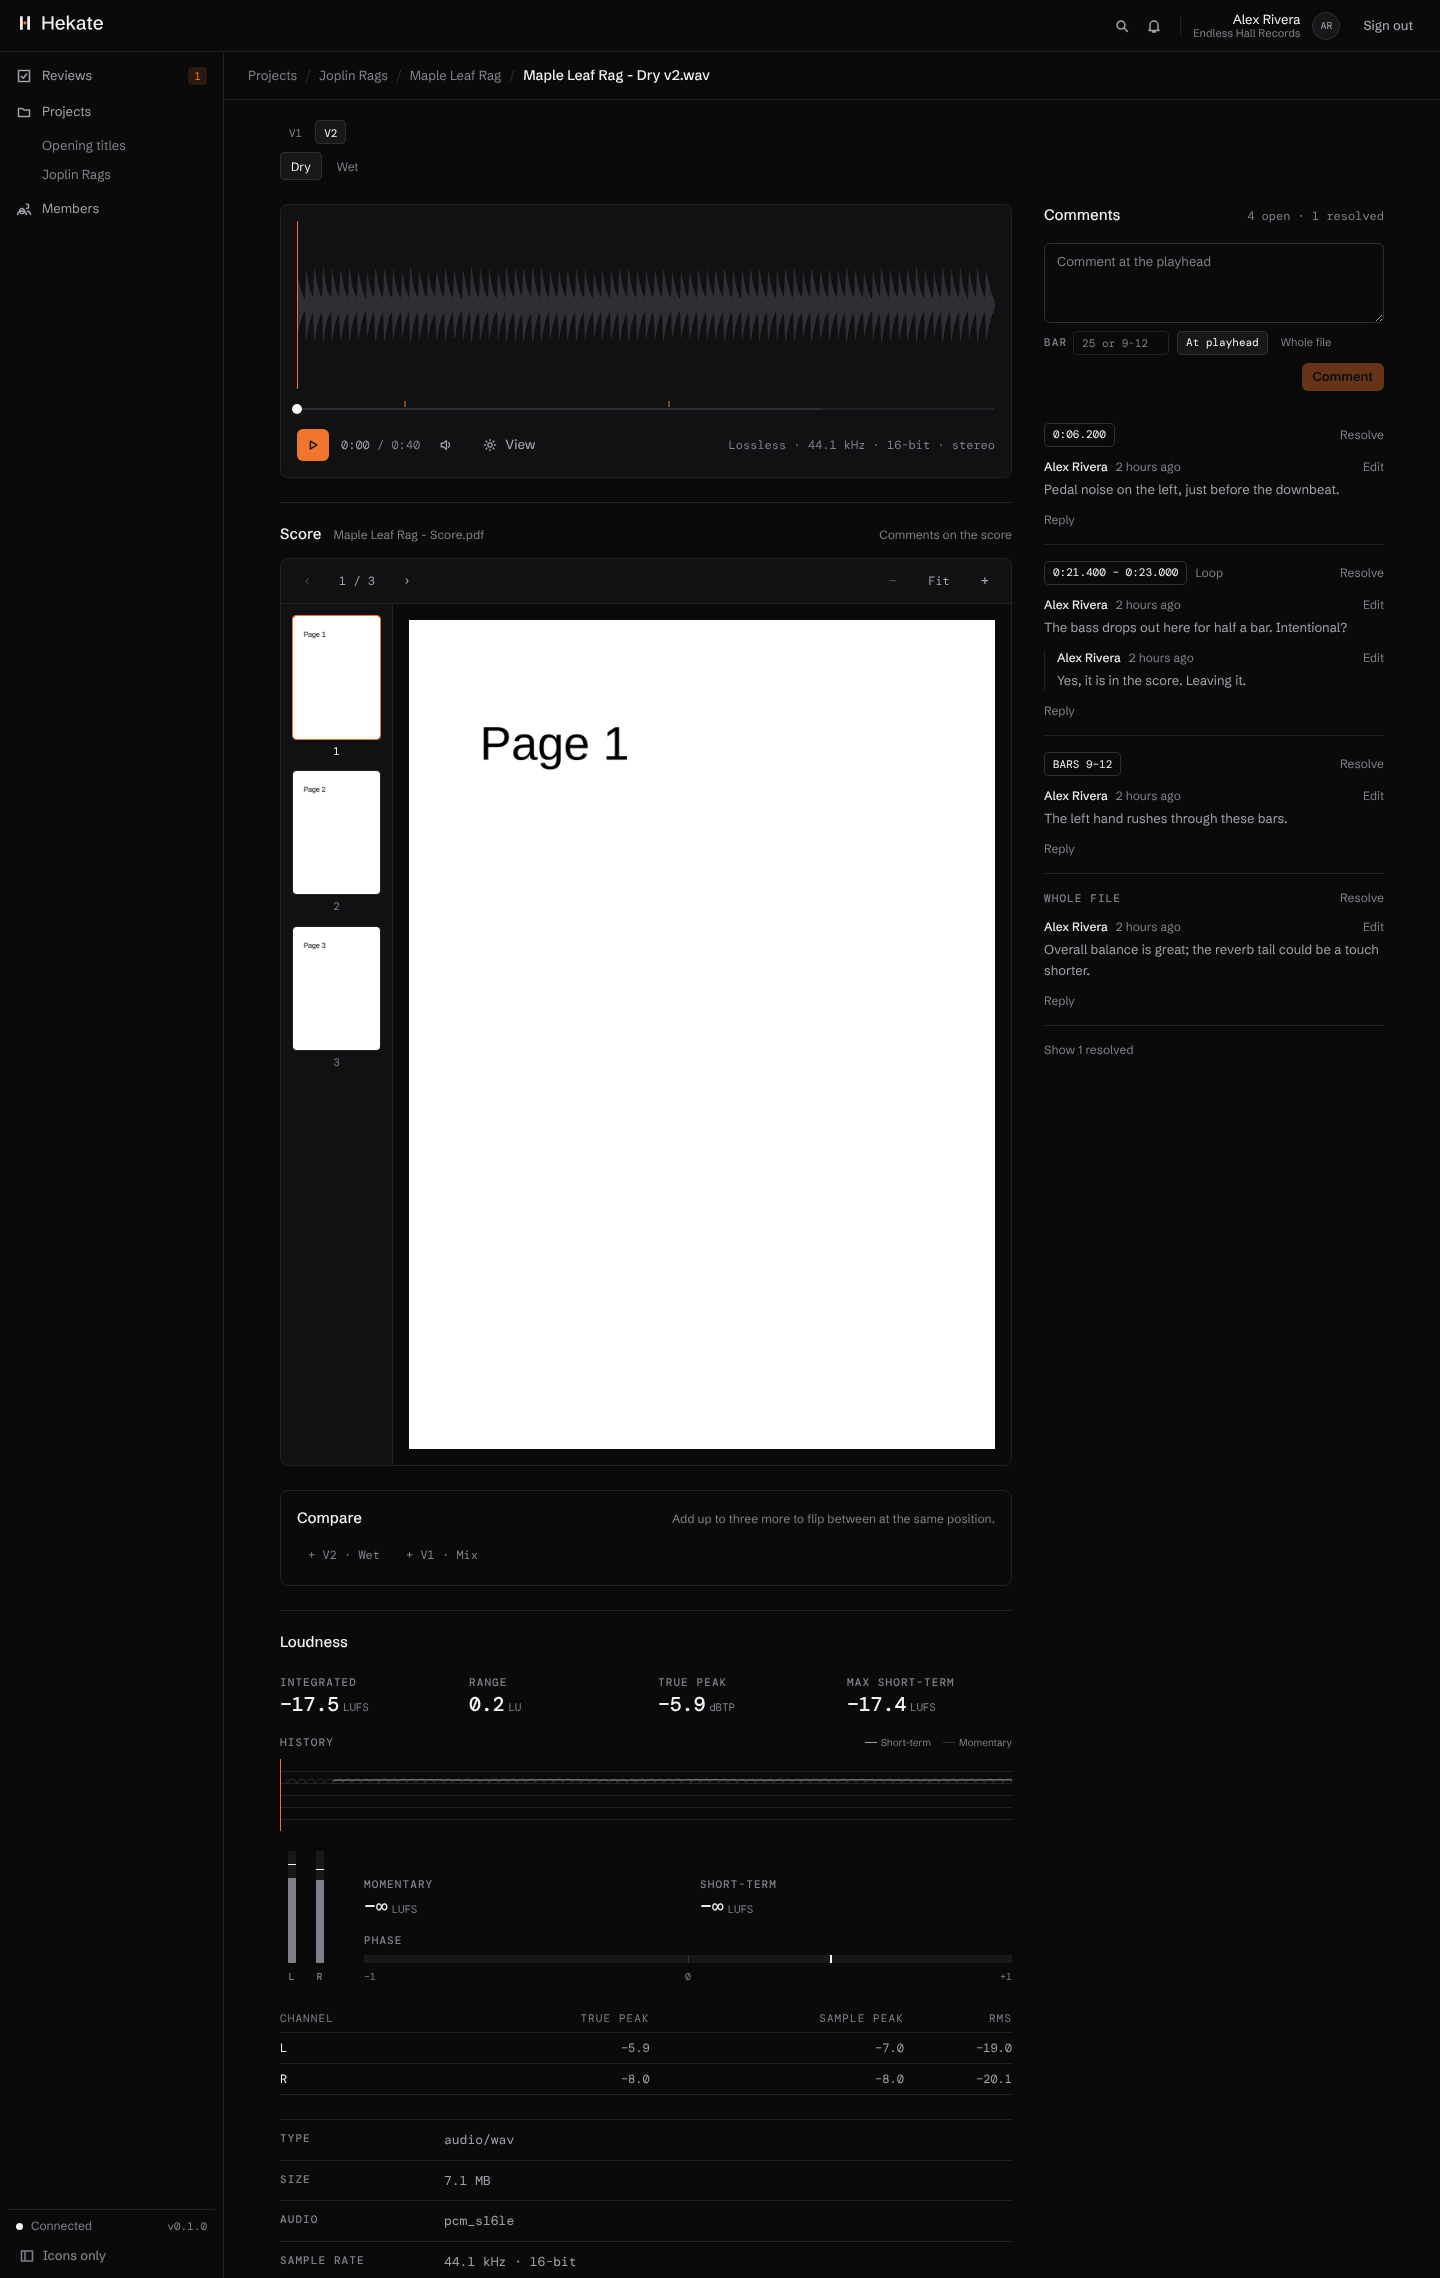
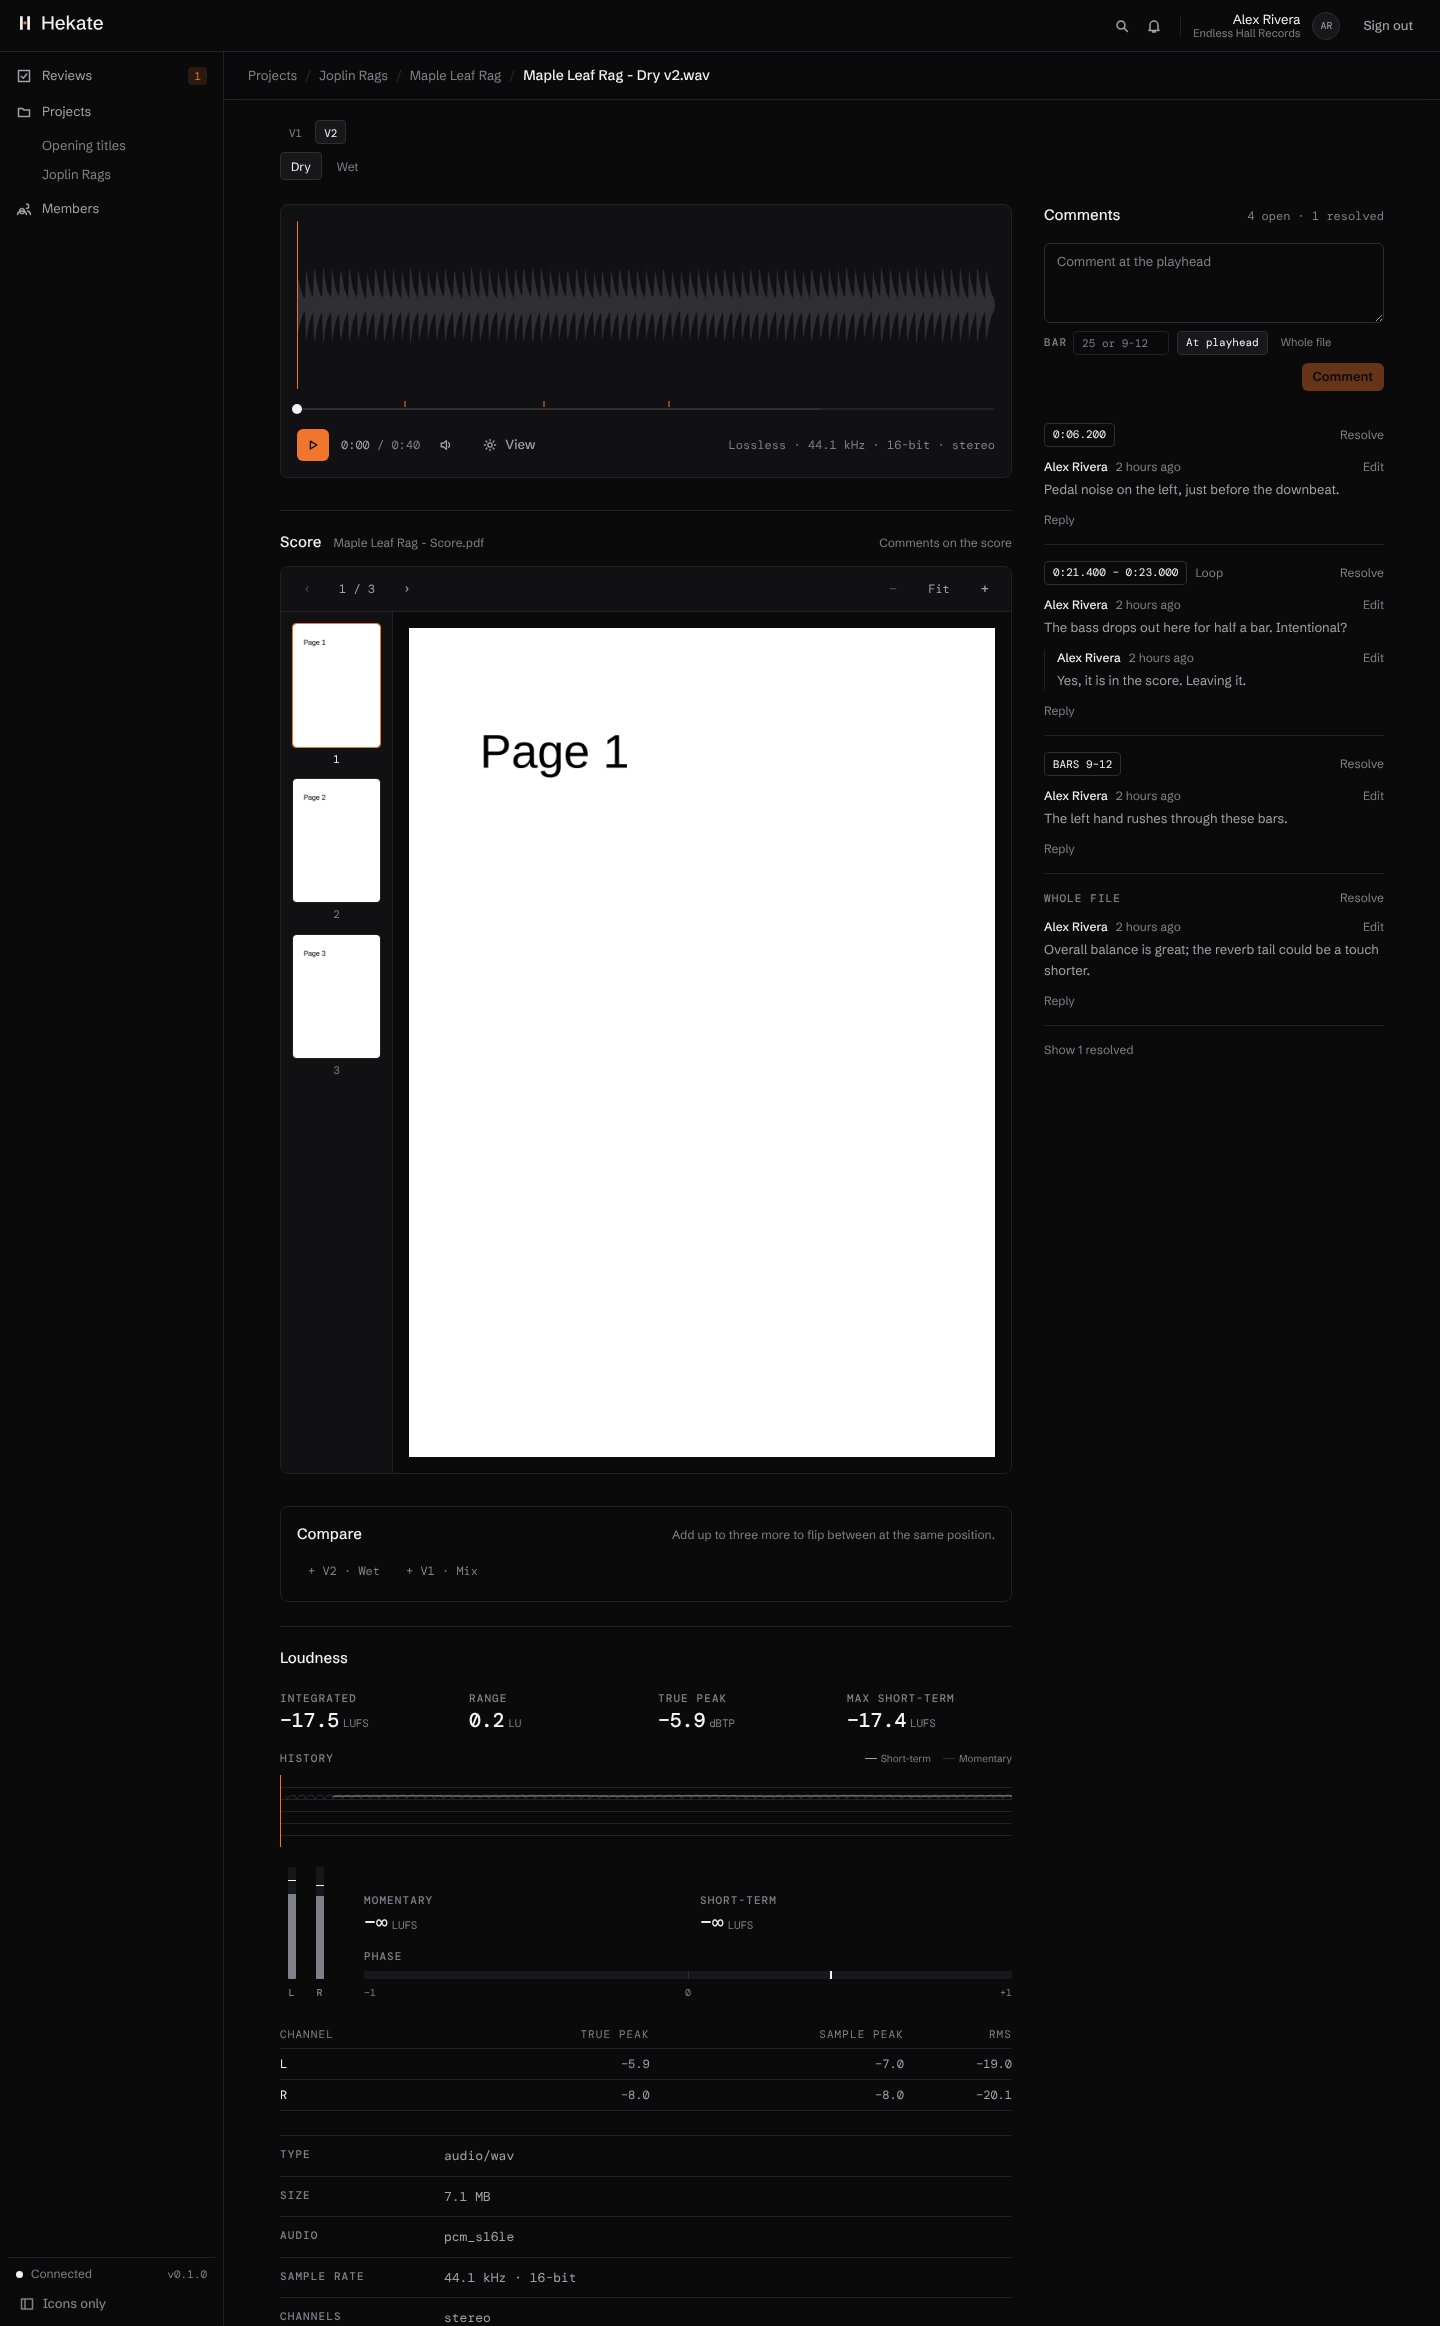
fix(web): on a phone, the comments follow the player, before the score
Claude-Session: https://claude.ai/code/session_01NFVnDKxWxdqH1wjHhzokRU

diff --git a/apps/web/src/routes/file.tsx b/apps/web/src/routes/file.tsx
@@ -239,7 +239,11 @@ export function FilePage({
       />
       <div className="mx-auto flex max-w-6xl flex-col gap-6 px-4 py-5 sm:px-6">
         {!guest && <FileContext file={file} />}
-        <div className="grid grid-cols-1 items-start gap-8 lg:grid-cols-[minmax(0,1fr)_340px]">
+        {/*
+          On a phone the comments follow the player, before the score and the details; on a
+          wide screen they sit beside all of them, which the rows and spans below arrange.
+        */}
+        <div className="grid grid-cols-1 items-start gap-8 lg:grid-cols-[minmax(0,1fr)_340px] lg:grid-rows-[auto_auto_auto_1fr]">
           <div className="flex min-w-0 flex-col gap-6">
             <Playback
               file={file}
@@ -249,9 +253,35 @@ export function FilePage({
               pages={pages}
               canComment={canComment}
             />
-            {file.variation?.scoreFileId && (file.kind === "audio" || file.kind === "video") && (
+          </div>
+          <div className="min-w-0 lg:col-start-2 lg:row-span-4 lg:row-start-1">
+            <Comments
+              fileId={file.id}
+              projectId={file.projectId}
+              media={media}
+              loop={passage}
+              pages={file.streamStatus === "ready" ? pages : undefined}
+              onBeforeAfter={comparable ? beforeAfter : undefined}
+              onLoop={
+                allows("loops")
+                  ? (next) => {
+                      // One action: the passage is looped and heard from its start.
+                      onLoop(next);
+                      if (media) {
+                        media.currentTime = next.start;
+                        void media.play().catch(() => undefined);
+                      }
+                    }
+                  : undefined
+              }
+            />
+          </div>
+          {file.variation?.scoreFileId && (file.kind === "audio" || file.kind === "video") && (
+            <div className="min-w-0">
               <ScorePane scoreFileId={file.variation.scoreFileId} />
-            )}
+            </div>
+          )}
+          <div className="flex min-w-0 flex-col gap-6">
             {comparable && <Compare file={file} media={media} focus={focus} />}
             {file.mediaInfo?.audio && allows("meters") && (
               <Loudness
@@ -262,26 +292,6 @@ export function FilePage({
             )}
             <dl className="m-0 hidden flex-col border-t border-hairline lg:flex">{detailRows}</dl>
           </div>
-          <Comments
-            fileId={file.id}
-            projectId={file.projectId}
-            media={media}
-            loop={passage}
-            pages={file.streamStatus === "ready" ? pages : undefined}
-            onBeforeAfter={comparable ? beforeAfter : undefined}
-            onLoop={
-              allows("loops")
-                ? (next) => {
-                    // One action: the passage is looped and heard from its start.
-                    onLoop(next);
-                    if (media) {
-                      media.currentTime = next.start;
-                      void media.play().catch(() => undefined);
-                    }
-                  }
-                : undefined
-            }
-          />
           <dl className="m-0 flex flex-col border-t border-hairline lg:hidden">{detailRows}</dl>
         </div>
       </div>
